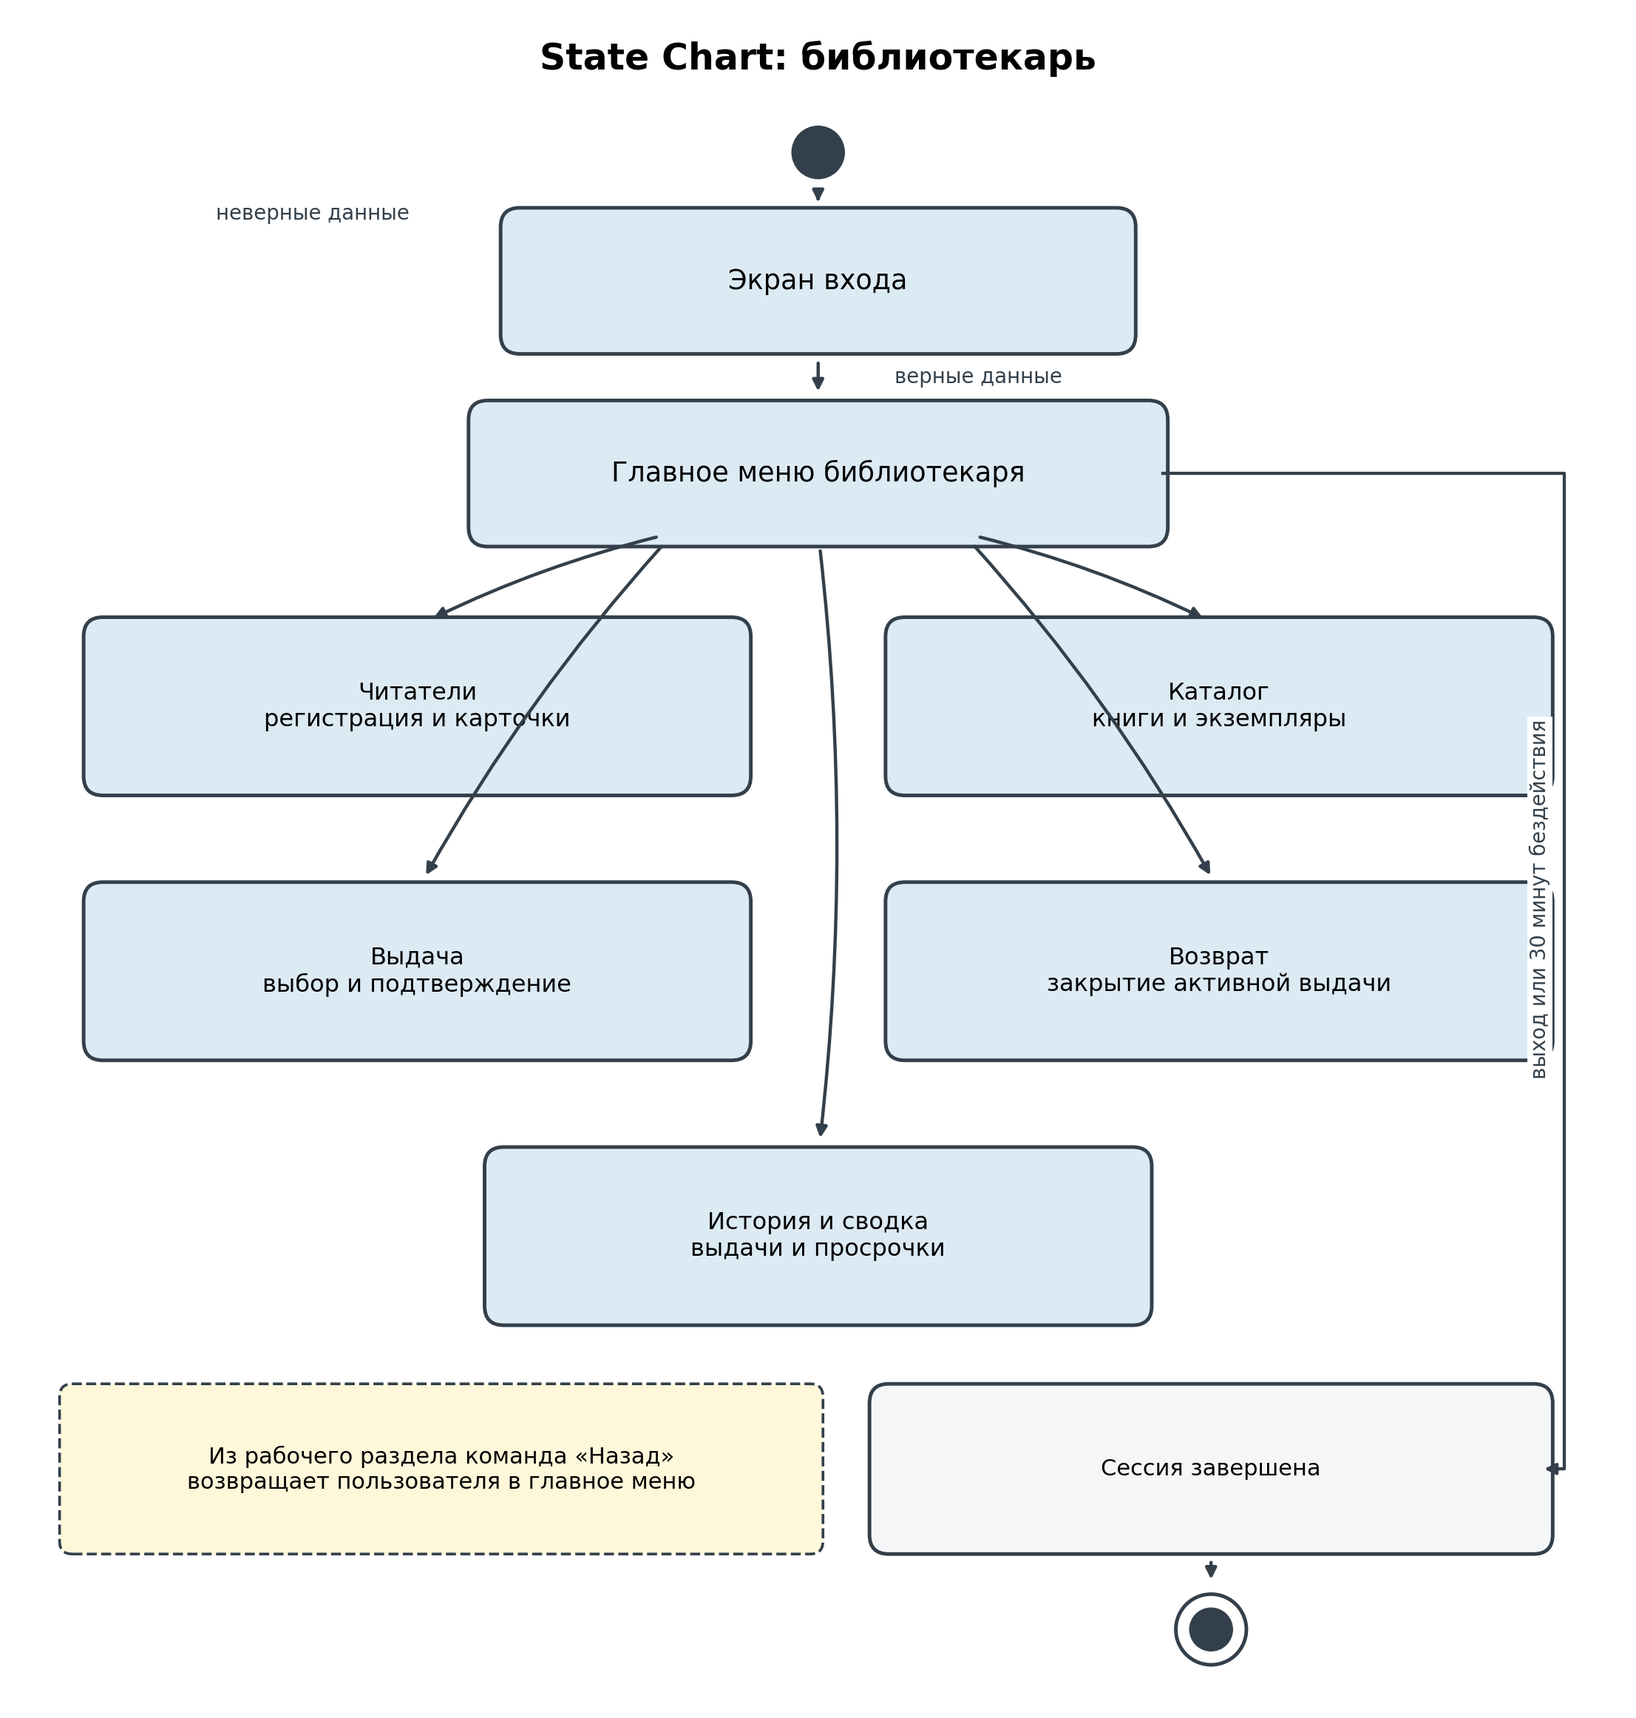
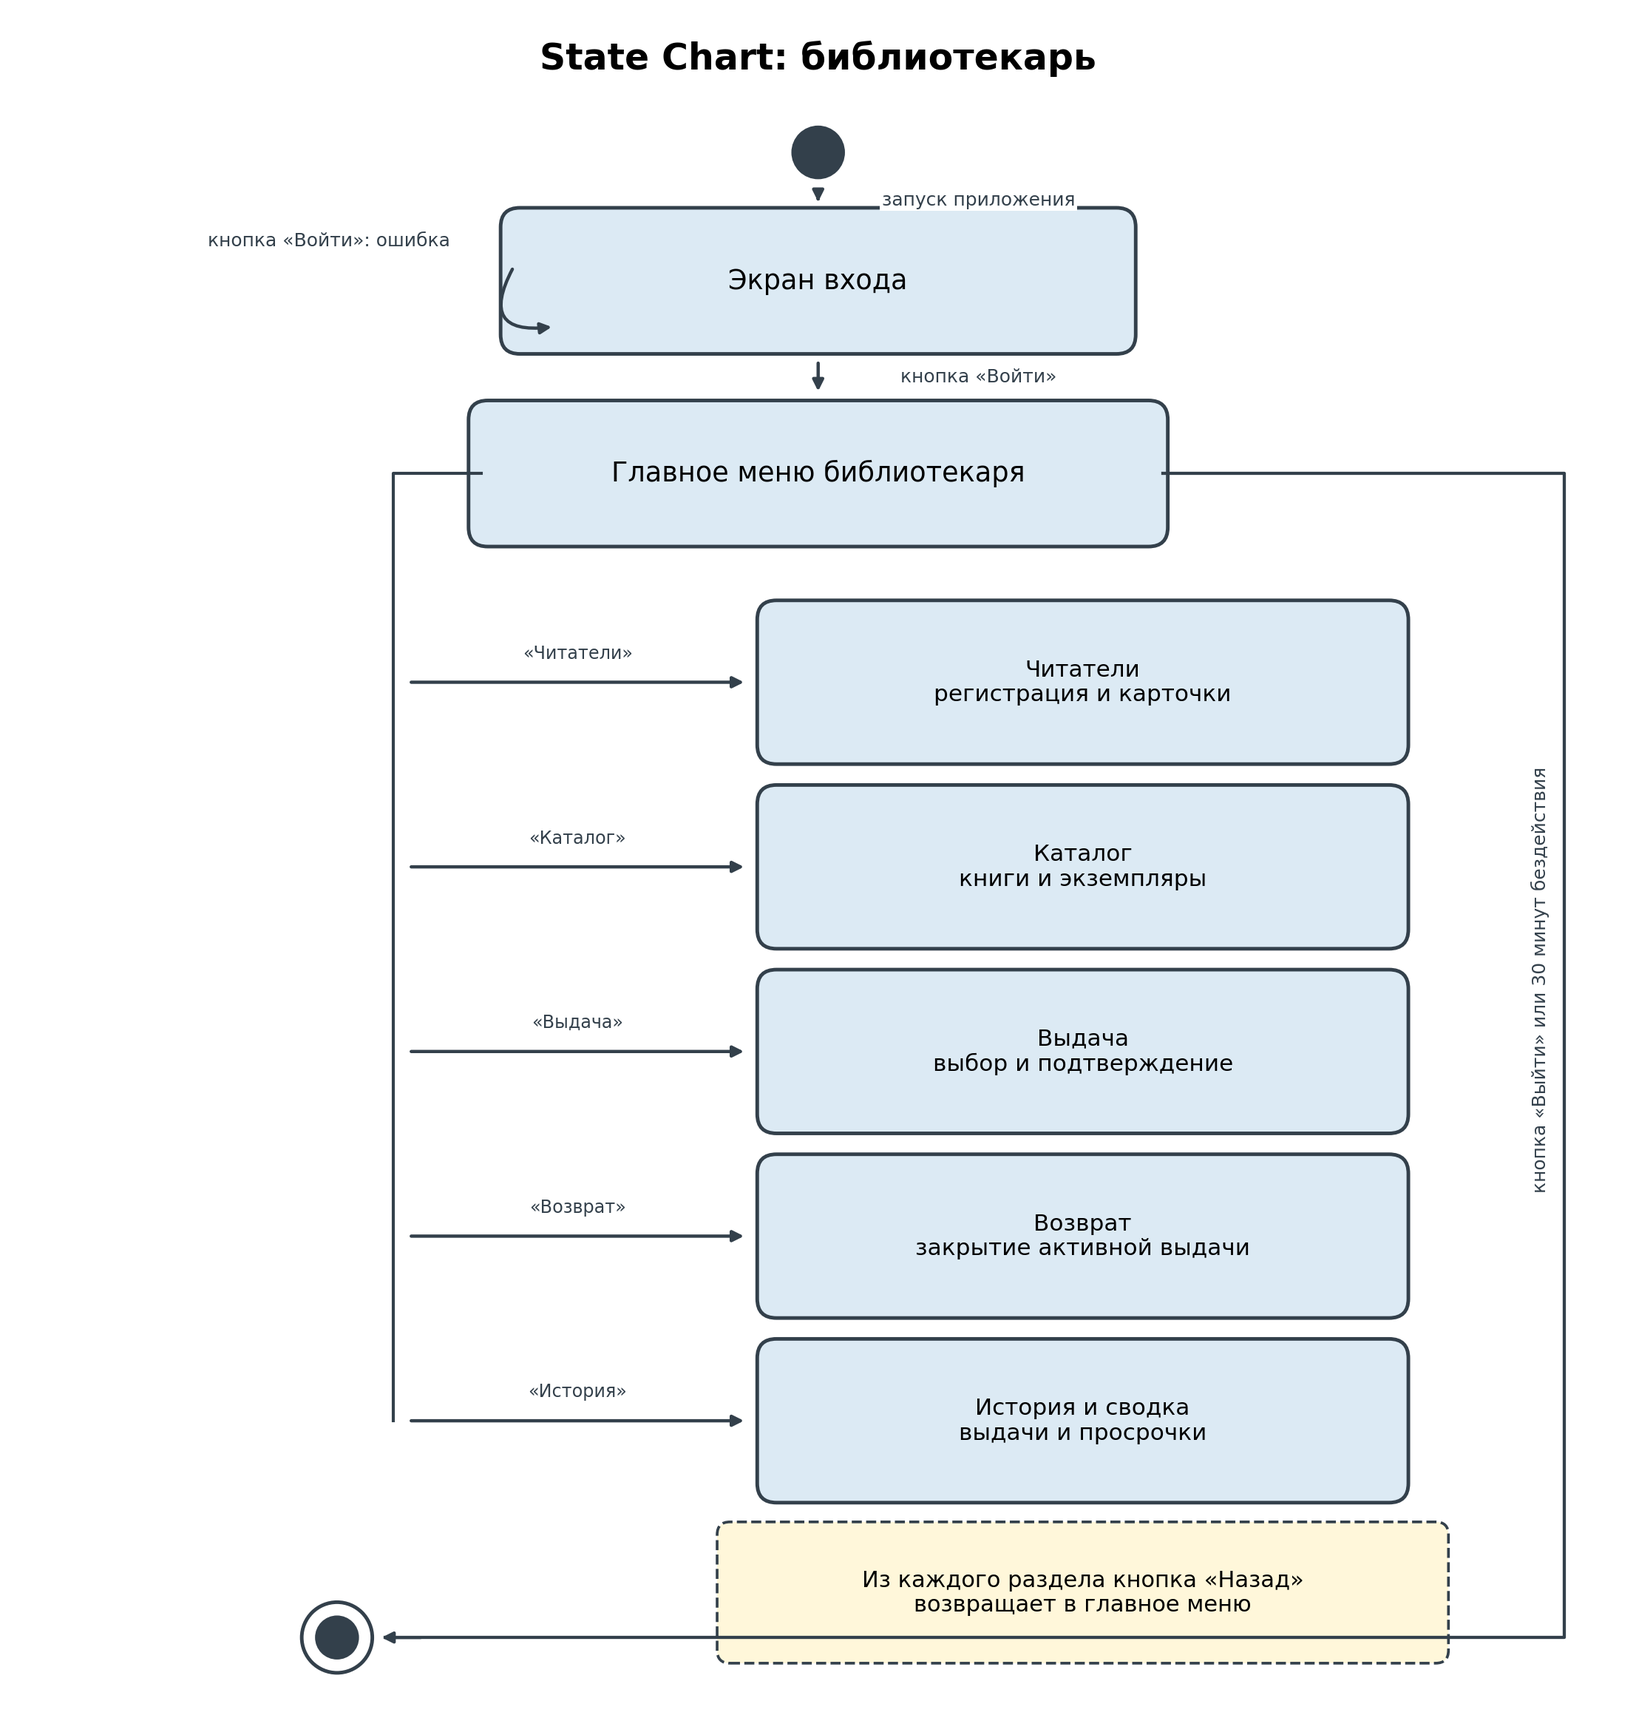
Добавить кнопки переходов в State Chart

diff --git a/Лабораторная_работа_4_Библиотека.md b/Лабораторная_работа_4_Библиотека.md
@@ -96,17 +96,18 @@ UML модели приложения Библиотека
 
 ### П2.2.2 Таблица переходов библиотекаря
 
-| **Исходное состояние**    | **Событие**                   | **Новое состояние**             | **Действие системы**                                          |
-|---------------------------|-------------------------------|---------------------------------|---------------------------------------------------------------|
-| Экран входа               | Ввод верных данных            | Главное меню                    | Создается сессия с назначенной ролью.                         |
-| Экран входа               | Неверные данные               | Экран входа                     | Показывается общий отказ, данные системы не изменяются.       |
-| Главное меню библиотекаря | Выбор раздела                 | Выбранный рабочий экран         | Открывается разрешенный библиотекарю раздел.                  |
-| Читатели                  | Создать или изменить карточку | Читатели                        | Сервер проверяет поля и сохраняет карточку.                   |
-| Каталог                   | Добавить или изменить запись  | Каталог                         | Проверяются уникальность номера и допустимость изменения.     |
-| Выдача                    | Подтвердить операцию          | Главное меню или экран выдачи   | При успехе создается выдача; при отказе показывается причина. |
-| Возврат                   | Подтвердить операцию          | Главное меню или экран возврата | Активная выдача закрывается либо отображается отказ.          |
-| История и сводка          | Задать параметры просмотра    | История и сводка                | Отображаются выдачи, просрочки и показатели за период.        |
-| Любой защищенный экран    | Выход или истечение сессии    | Экран входа                     | Сессия прекращается, дальнейшие запросы требуют входа.        |
+| **Исходное состояние**    | **Событие**                                                     | **Новое состояние**             | **Действие системы**                                          |
+|---------------------------|-----------------------------------------------------------------|---------------------------------|---------------------------------------------------------------|
+| Экран входа               | Нажать «Войти» с верными данными                                | Главное меню библиотекаря       | Создается сессия с ролью библиотекаря.                        |
+| Экран входа               | Нажать «Войти» с неверными данными                              | Экран входа                     | Показывается общий отказ, данные системы не изменяются.       |
+| Главное меню библиотекаря | Нажать «Читатели», «Каталог», «Выдача», «Возврат» или «История» | Выбранный рабочий экран         | Открывается выбранный раздел библиотекаря.                    |
+| Читатели                  | Нажать «Создать» или «Сохранить»                                | Читатели                        | Сервер проверяет поля и сохраняет карточку.                   |
+| Каталог                   | Нажать «Добавить» или «Сохранить»                               | Каталог                         | Проверяются уникальность номера и допустимость изменения.     |
+| Выдача                    | Нажать «Подтвердить выдачу»                                     | Главное меню или экран выдачи   | При успехе создается выдача; при отказе показывается причина. |
+| Возврат                   | Нажать «Подтвердить возврат»                                    | Главное меню или экран возврата | Активная выдача закрывается либо отображается отказ.          |
+| История и сводка          | Нажать «Показать»                                               | История и сводка                | Отображаются выдачи, просрочки и показатели за период.        |
+| Любой рабочий раздел      | Нажать «Назад»                                                  | Главное меню библиотекаря       | Открывается главное меню без завершения сессии.               |
+| Любой защищенный экран    | Нажать «Выйти» или дождаться истечения сессии                   | Экран входа                     | Сессия прекращается, дальнейшие запросы требуют входа.        |
 
 ### П2.2.3 State Chart администратора
 
@@ -118,16 +119,17 @@ UML модели приложения Библиотека
 
 ### П2.2.4 Таблица переходов администратора
 
-| **Исходное состояние**      | **Событие**                                | **Новое состояние**         | **Действие системы**                                   |
-|-----------------------------|--------------------------------------------|-----------------------------|--------------------------------------------------------|
-| Экран входа                 | Ввод верных данных                         | Главное меню администратора | Создается сессия с ролью администратора.               |
-| Экран входа                 | Неверные данные                            | Экран входа                 | Показывается отказ, данные системы не изменяются.      |
-| Главное меню администратора | Выбор раздела                              | Выбранный служебный экран   | Проверяются полномочия администратора.                 |
-| Учетные записи              | Создать, изменить или заблокировать запись | Учетные записи              | Сохраняются изменения прав доступа сотрудника.         |
-| Правила выдачи              | Изменить лимит или срок                    | Правила выдачи              | Новая версия правил применяется к последующим выдачам. |
-| Резервные копии             | Создать копию                              | Резервные копии             | Сервер создает и проверяет согласованную копию данных. |
-| Резервные копии             | Подтвердить восстановление                 | Главное меню администратора | После проверки выполняется восстановление данных.      |
-| Любой защищенный экран      | Выход или истечение сессии                 | Экран входа                 | Сессия прекращается, дальнейшие запросы требуют входа. |
+| **Исходное состояние**      | **Событие**                                                     | **Новое состояние**         | **Действие системы**                                   |
+|-----------------------------|-----------------------------------------------------------------|-----------------------------|--------------------------------------------------------|
+| Экран входа                 | Нажать «Войти» с верными данными                                | Главное меню администратора | Создается сессия с ролью администратора.               |
+| Экран входа                 | Нажать «Войти» с неверными данными                              | Экран входа                 | Показывается отказ, данные системы не изменяются.      |
+| Главное меню администратора | Нажать «Учетные записи», «Правила выдачи» или «Резервные копии» | Выбранный служебный экран   | Проверяются полномочия администратора.                 |
+| Учетные записи              | Нажать «Создать», «Сохранить» или «Заблокировать»               | Учетные записи              | Сохраняются изменения прав доступа сотрудника.         |
+| Правила выдачи              | Нажать «Сохранить правила»                                      | Правила выдачи              | Новая версия правил применяется к последующим выдачам. |
+| Резервные копии             | Нажать «Создать копию»                                          | Резервные копии             | Сервер создает и проверяет согласованную копию данных. |
+| Резервные копии             | Нажать «Восстановить», затем «Подтвердить»                      | Главное меню администратора | После проверки выполняется восстановление данных.      |
+| Любой служебный раздел      | Нажать «Назад»                                                  | Главное меню администратора | Открывается главное меню без завершения сессии.        |
+| Любой защищенный экран      | Нажать «Выйти» или дождаться истечения сессии                   | Экран входа                 | Сессия прекращается, дальнейшие запросы требуют входа. |
 
 ## П2.3 Состояния объекта Экземпляр
 
